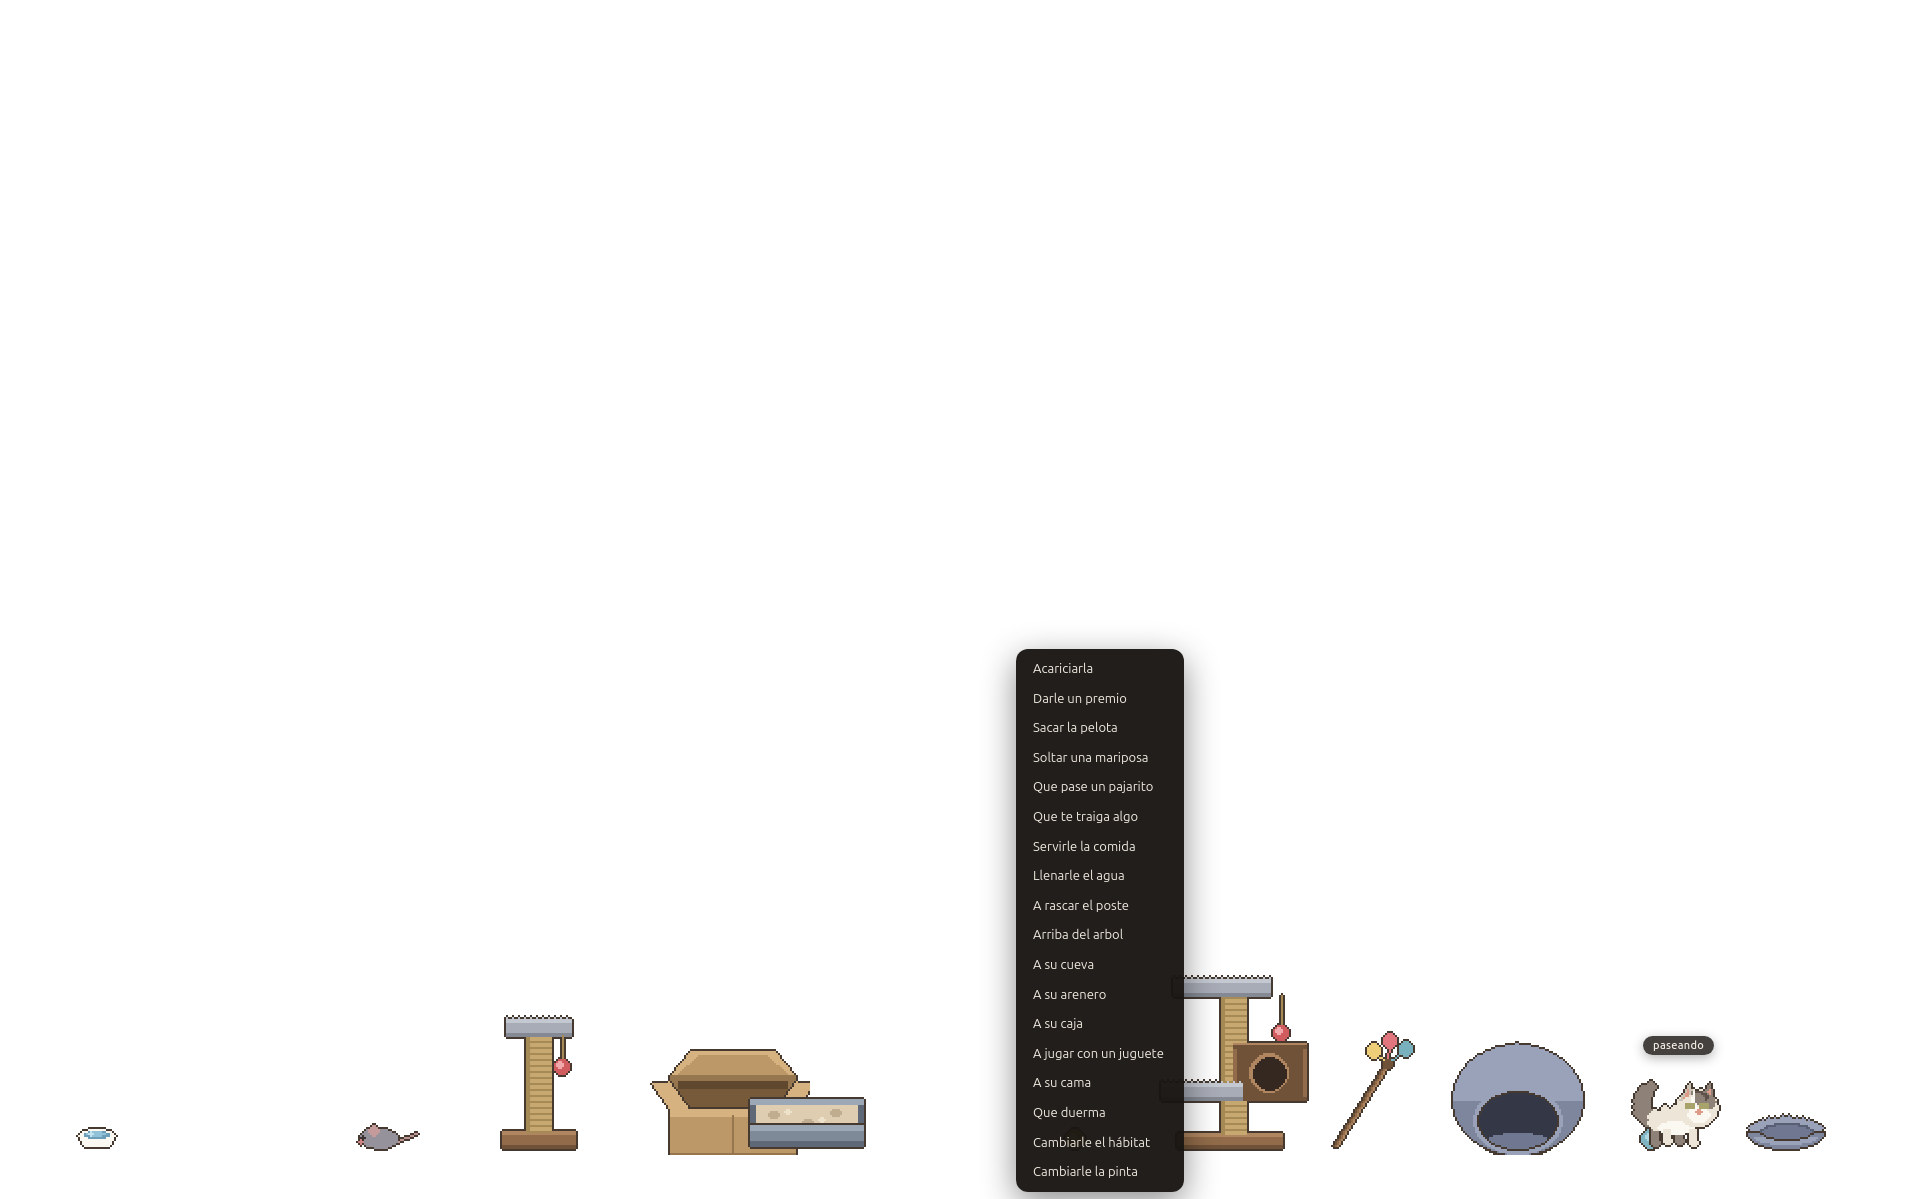
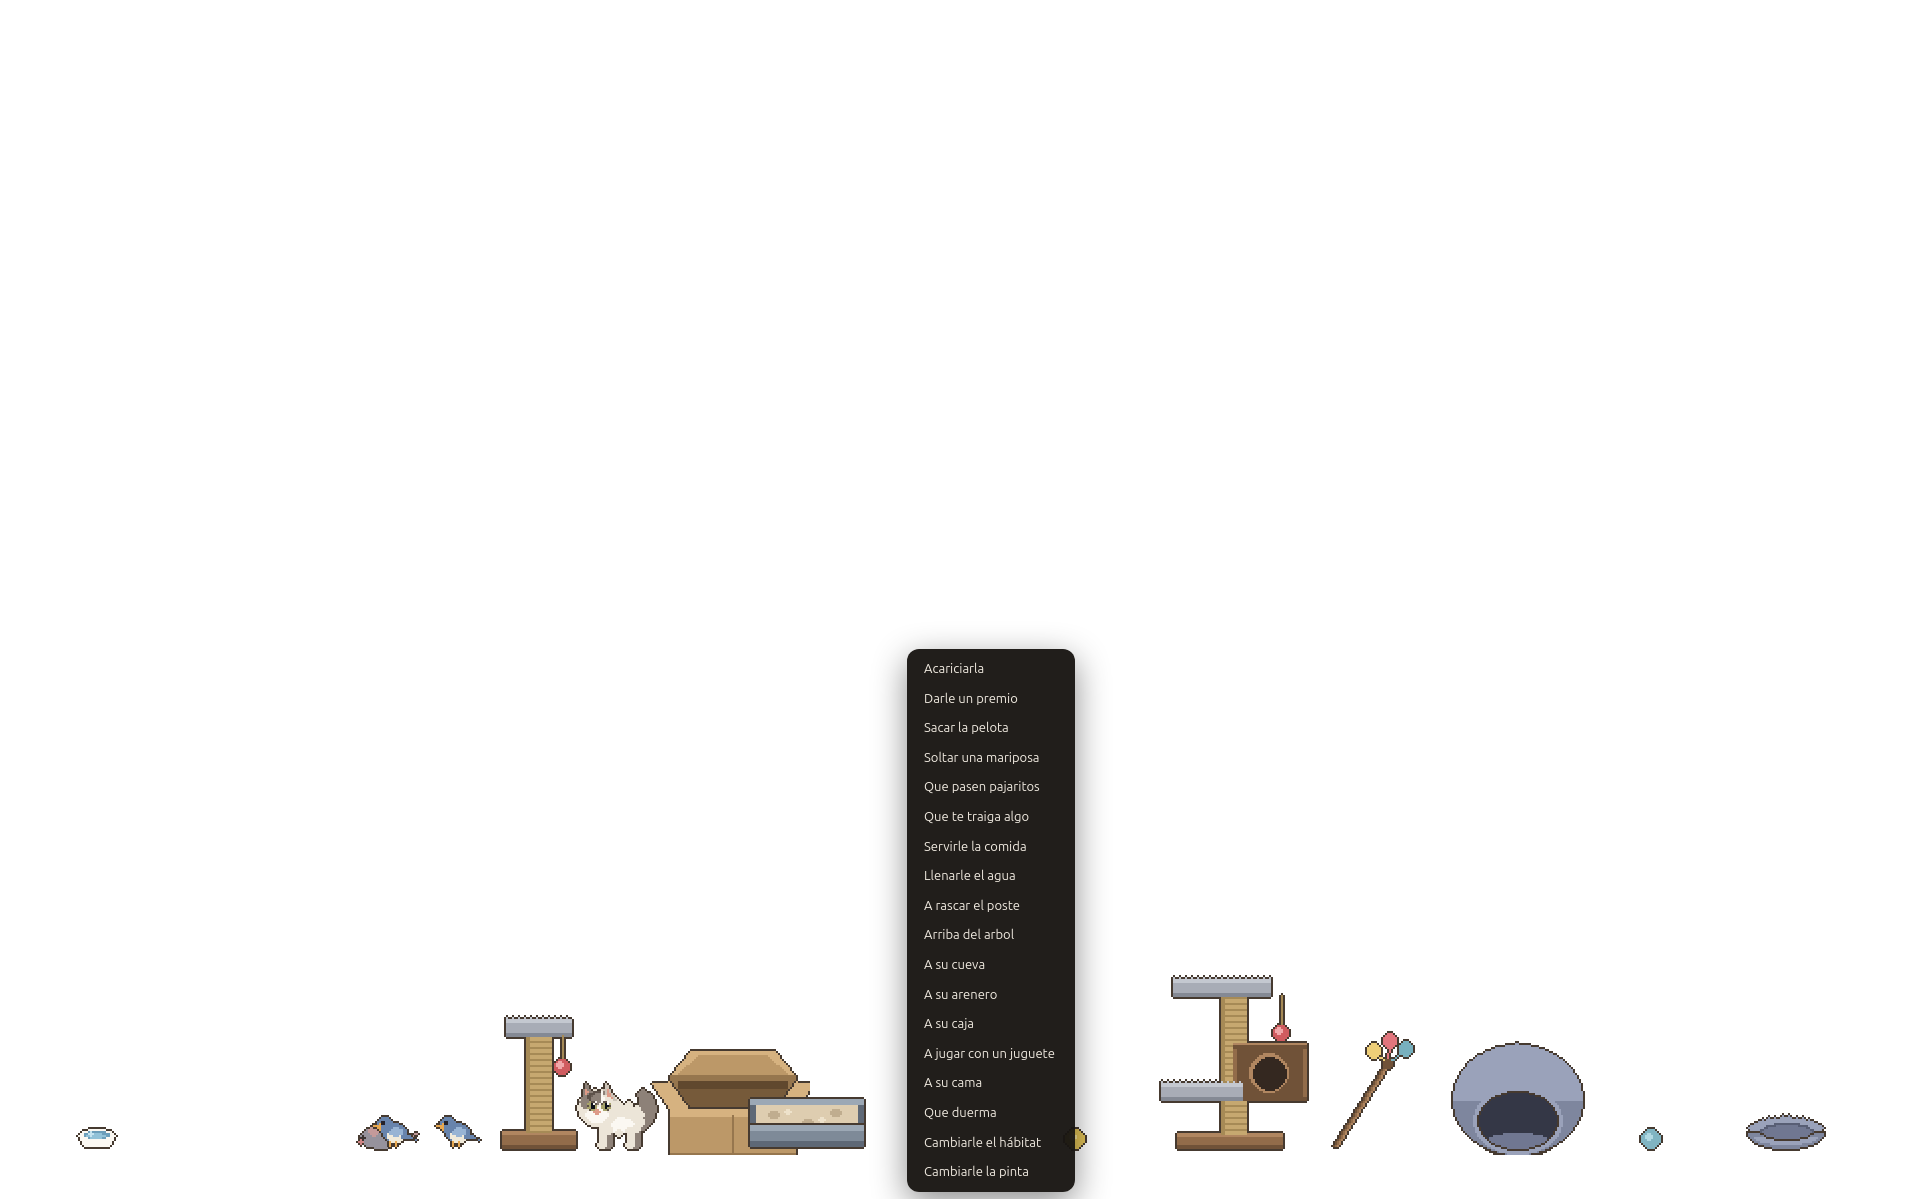
Una bandada en vez de un pajarito solo
Tres pajaros en vez de uno. Entran de a uno a tres, del mismo lado, escalonados
en x y en el momento de posarse — si no parecen un solo pajaro triplicado.

Lo que los hace bandada y no tres pajaros sueltos: se espantan JUNTOS. Cuando
uno levanta vuelo, los que estan a menos de 260 px salen atras. Verificado: se
posan los dos, ella se acerca, y al espantarse uno se van los dos.

El motor de ella no cambio ni una linea: cada frame cat.props.bird apunta al mas
cercano de los activos, asi que todo lo que ya sabia hacer con un pajaro —
mirarlo, castañetear, acecharlo — sirve igual con la bandada.

diff --git a/src/renderer/main.js b/src/renderer/main.js
@@ -88,7 +88,7 @@ let pieces = []                    // las piezas del habitat puesto
 let box = null                     // su caja, si el habitat trae una
 let butterfly = null
 let nextButterfly = 0              // cuando sale la proxima, en habitats con jardin
-let bird = null
+let birds = []
 let nextBird = 0
 let gift = null
 let diasJuntos = 0                 // desde el primer dia
@@ -166,6 +166,18 @@ let lastTouch = performance.now()   // ultima vez que interactuaste con ella
 let missCooldown = 0
 let missAfterMs = 12 * 60 * 1000    // cuanto aguanta antes de venir a buscarte
 
+/** Entran uno a tres, del mismo lado y escalonados, como una bandada. */
+function soltarBandada () {
+  const lado = Math.random() < 0.5 ? -1 : 1
+  const cuantos = 1 + Math.floor(Math.random() * birds.length)
+  birds.slice(0, cuantos).forEach((b, i) => {
+    if (b.active) return
+    b.spawn(lado)
+    b.x -= lado * i * 70          // escalonados, no todos encima
+    b.hold += i * 0.5             // y no se posan todos en el mismo instante
+  })
+}
+
 /** Suelta una mariposa cerca de ella, pero no encima. */
 function soltarMariposa () {
   if (!butterfly || !cat) return
@@ -220,7 +232,7 @@ window.nala.onBoot(async ({ config, display, look, looks, habitat, habitats, est
   ball = new Ball(world)
   treat = new Treat(world)
   butterfly = new Butterfly(world)
-  bird = new Bird(world)
+  birds = [new Bird(world), new Bird(world), new Bird(world)]
   gift = new Gift(world)
 
   // Su habitat. Las piezas salen del json: cada una se dibuja sola desde el
@@ -248,7 +260,7 @@ window.nala.onBoot(async ({ config, display, look, looks, habitat, habitats, est
   box = byRole('box')
   toys = pieces.filter((p) => PIECE_ROLE[p.kind] === 'toy')
 
-  cat.props = { bowl, ball, treat, bed, post, tree, cave, toys, litter, water, box, butterfly, bird, gift }
+  cat.props = { bowl, ball, treat, bed, post, tree, cave, toys, litter, water, box, butterfly, bird: null, gift }
 
   needs = new Needs(config)
   cat.needs = needs
@@ -280,7 +292,7 @@ window.nala.onBoot(async ({ config, display, look, looks, habitat, habitats, est
   if (debug) {
     // Autotest: saca la pelota y captura el canvas para poder mirarlo.
     setTimeout(() => { forceStats = true }, 3200)
-    setTimeout(() => { forceStats = false; bird.spawn(-1) }, 3300)
+    setTimeout(() => { forceStats = false; soltarBandada() }, 3300)
     setTimeout(() => {
       console.log(`[nala] ball.active=${ball.active} estado=${cat.state} menu=${menuOpen}`)
     }, 5500)
@@ -310,7 +322,7 @@ window.nala.onCommand((cmd) => {
   if (cmd.type === 'litter') cat.goToLitter()
   if (cmd.type === 'box') cat.goToBox()
   if (cmd.type === 'butterfly') soltarMariposa()
-  if (cmd.type === 'bird') bird.spawn()
+  if (cmd.type === 'bird') soltarBandada()
   if (cmd.type === 'gift') cat.traerRegalo()
   if (cmd.type === 'water') {
     water.fill()
@@ -583,7 +595,7 @@ const MENU_ITEMS = [
   ['Darle un premio', () => cat.giveTreat(cat.x + (Math.random() < 0.5 ? -1 : 1) * 170)],
   ['Sacar la pelota', () => cat.playtime()],
   ['Soltar una mariposa', () => soltarMariposa()],
-  ['Que pase un pajarito', () => bird.spawn()],
+  ['Que pasen pajaritos', () => soltarBandada()],
   ['Que te traiga algo', () => cat.traerRegalo()],
   ['Servirle la comida', () => cat.mealtime()],
   ['Llenarle el agua', () => water.fill()],
@@ -817,14 +829,32 @@ function loop (now) {
     // Se guarda cada tanto, no en cada frame.
     if (now > nextSave) { nextSave = now + 30000; guardar() }
     butterfly.update(dt, cat.x, cat.y)
-    bird.update(dt, cat.x, cat.vx)
+    for (const b of birds) b.update(dt, cat.x, cat.vx)
+
+    // La bandada se espanta junta: si uno levanta vuelo, los que estan cerca
+    // salen atras. Es lo que las hace parecer una bandada y no tres pajaros
+    // sueltos que casualmente estan en el mismo lugar.
+    for (const b of birds) {
+      if (!b.active || b.posado || b.hold < 4.6) continue
+      for (const o of birds) {
+        if (o !== b && o.active && o.posado && Math.abs(o.x - b.x) < 260) {
+          o.espantar(b.x + (b.x > o.x ? 60 : -60))
+        }
+      }
+    }
+
+    // Ella se ocupa del que tenga mas cerca.
+    const activos = birds.filter((b) => b.active)
+    cat.props.bird = activos.length
+      ? activos.reduce((a, b) => (Math.abs(a.x - cat.x) <= Math.abs(b.x - cat.x) ? a : b))
+      : null
     gift.update(dt, cat.x, cat.y)
 
     // Los pajaritos pasan solos cada tanto, en cualquier habitat: se ven por
     // la ventana aunque ella este adentro.
-    if (!bird.active) {
+    if (!birds.some((b) => b.active)) {
       if (!nextBird) nextBird = now + 60000 + Math.random() * 150000
-      else if (now > nextBird) { bird.spawn(); nextBird = 0 }
+      else if (now > nextBird) { soltarBandada(); nextBird = 0 }
     }
 
     // En el jardin sale una sola cada tanto. En los otros habitats hay que
@@ -909,9 +939,9 @@ function loop (now) {
   if (ball && ball.active) {
     propSheet.draw(ctx, 'ball', ball.spin * 1000, ball.x, ball.y, cat.scale, false)
   }
-  if (bird && bird.active) {
-    propSheet.draw(ctx, bird.anim, bird.phase * 1000, bird.x, bird.y,
-                   cat.scale, bird.facing < 0)
+  for (const b of birds) {
+    if (!b.active) continue
+    propSheet.draw(ctx, b.anim, b.phase * 1000, b.x, b.y, cat.scale, b.facing < 0)
   }
   if (butterfly && butterfly.active) {
     propSheet.draw(ctx, 'butterfly', butterfly.phase * 1000, butterfly.x, butterfly.y,

diff --git a/README.md b/README.md
@@ -210,7 +210,12 @@ Cada tanto pasa uno, en cualquier hábitat. No cruza de largo: **se posa** en un
 tabla de sus muebles o en el piso, y ahí vive — pega saltitos, picotea, se da
 vuelta a mirar, cambia de percha y se va.
 
-Ella no lo persigue de entrada: **se sienta a mirarlo y castañetea**. Ese
+Entran de a uno a tres, del mismo lado y escalonados. Y **se espantan juntos**:
+si uno levanta vuelo, los que están cerca salen atrás. Eso es lo que los hace
+parecer una bandada y no tres pájaros sueltos que casualmente están en el mismo
+lugar.
+
+Ella se ocupa del que tenga más cerca, y no lo persigue de entrada: **se sienta a mirarlo y castañetea**. Ese
 `ek ek ek` que hacen los gatos cuando ven un pájaro que no pueden alcanzar. Sale
 con las mismas partículas que los prrr.
 
@@ -463,7 +468,12 @@ Cada tanto pasa uno, en cualquier hábitat. No cruza de largo: **se posa** en un
 tabla de sus muebles o en el piso, y ahí vive — pega saltitos, picotea, se da
 vuelta a mirar, cambia de percha y se va.
 
-Ella no lo persigue de entrada: **se sienta a mirarlo y castañetea**. Ese
+Entran de a uno a tres, del mismo lado y escalonados. Y **se espantan juntos**:
+si uno levanta vuelo, los que están cerca salen atrás. Eso es lo que los hace
+parecer una bandada y no tres pájaros sueltos que casualmente están en el mismo
+lugar.
+
+Ella se ocupa del que tenga más cerca, y no lo persigue de entrada: **se sienta a mirarlo y castañetea**. Ese
 `ek ek ek` que hacen los gatos cuando ven un pájaro que no pueden alcanzar. Sale
 con las mismas partículas que los prrr.
 
